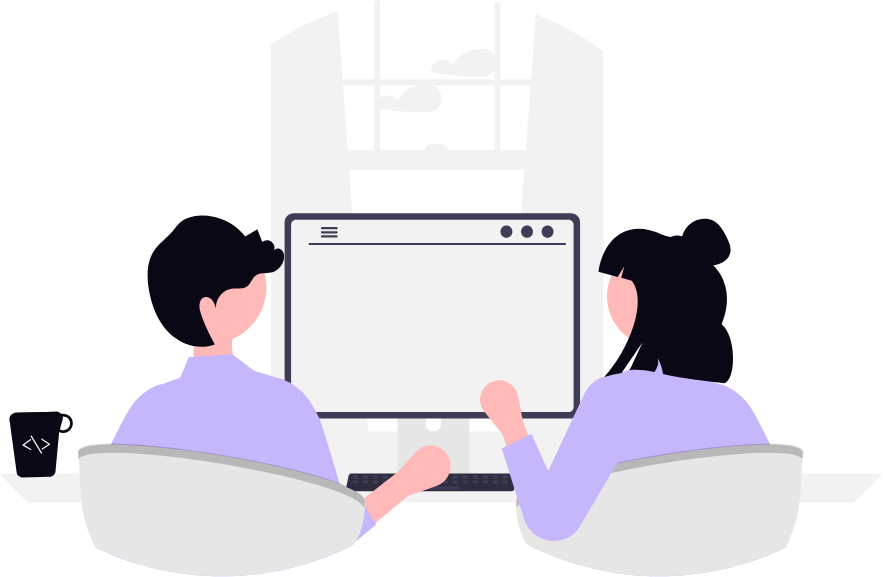
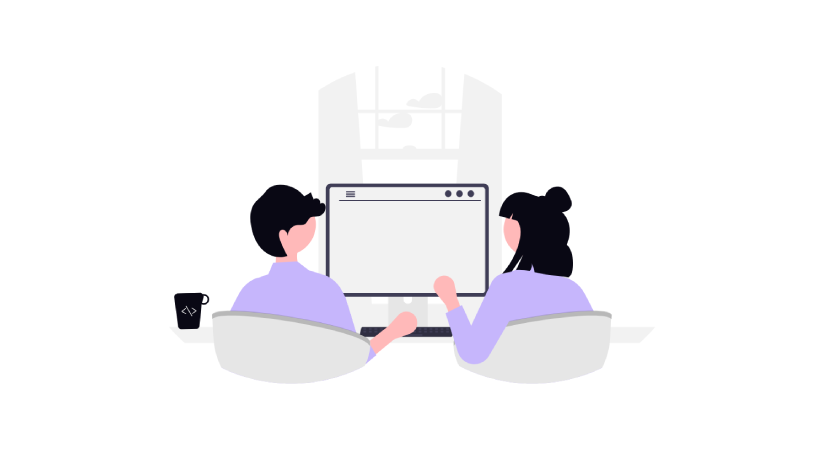
media size changes

diff --git a/index.html b/index.html
@@ -42,7 +42,7 @@
 					<a class="cta-btn" href="redirects/dashboard/lobby.html">Find a Tutor</a>
 				</div>
 				<div class="hero-image" data-aos="fade-left">
-					<img src="assets/banner.png" alt="Socratic AI features" style="transform: scale(.75);">
+					<img src="assets/banner.png" alt="Socratic AI features">
 				</div>
 			</div>
 		</section>
@@ -88,7 +88,7 @@
 		<section class="hero volunteer">
 			<div class="container hero-content">
 				<div class="hero-image" data-aos="fade-right">
-					<img src="assets/volunteer.png" alt="Socratic AI features" style="transform: scale(.65);">
+					<img src="assets/volunteer.png" alt="Socratic AI features">
 				</div>
 				<div class="hero-text" data-aos="fade-left">
 					<h2>Help Our Community Thrive</h2><br>
@@ -182,7 +182,7 @@
 					<p style="margin-bottom: 0;">Socratic AI helps you create personalized study schedules tailored to your learning needs. We simplify complex topics into manageable modules, while keeping you on track with progress at your own pace. Whether you have a few weeks or just a few days, prepare for your next exam stress-free!</p>
 				</div>
 				<div class="hero-image" data-aos="fade-left">
-					<img src="assets/empowering.png" alt="Socratic AI features" style="transform: scale(.8);">
+					<img src="assets/empowering.png" alt="Socratic AI features">
 				</div>
 			</div>
 		</section>
@@ -226,7 +226,7 @@
 		<section class="hero support" style="padding-top: 0;">
 			<div class="container hero-content">
 				<div class="hero-image" data-aos="fade-right">
-					<img src="assets/support.png" alt="Socratic AI features" style="transform: scale(.7);">
+					<img src="assets/support.png" alt="Socratic AI features">
 				</div>
 				<div class="hero-text" data-aos="fade-left">
 					<h2>Contact our Developers</h2><br>
